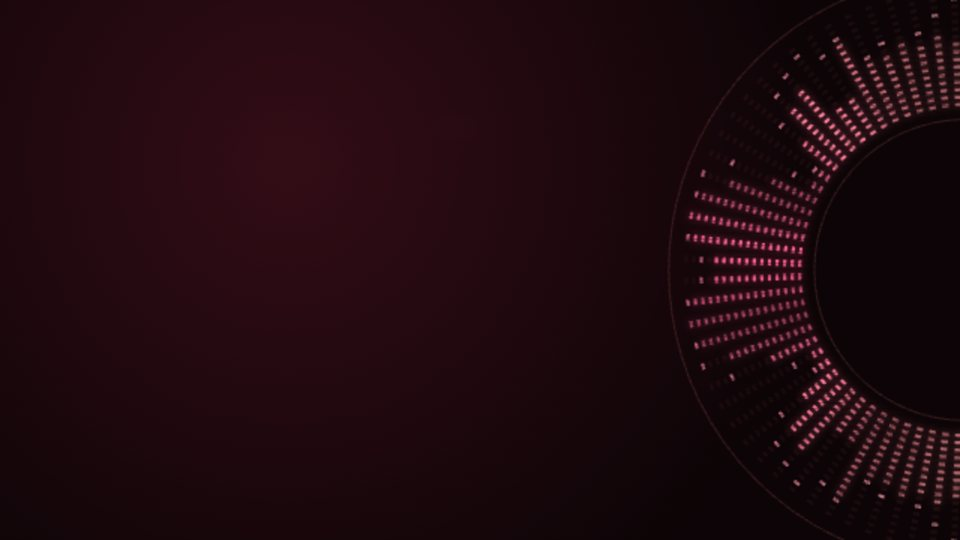
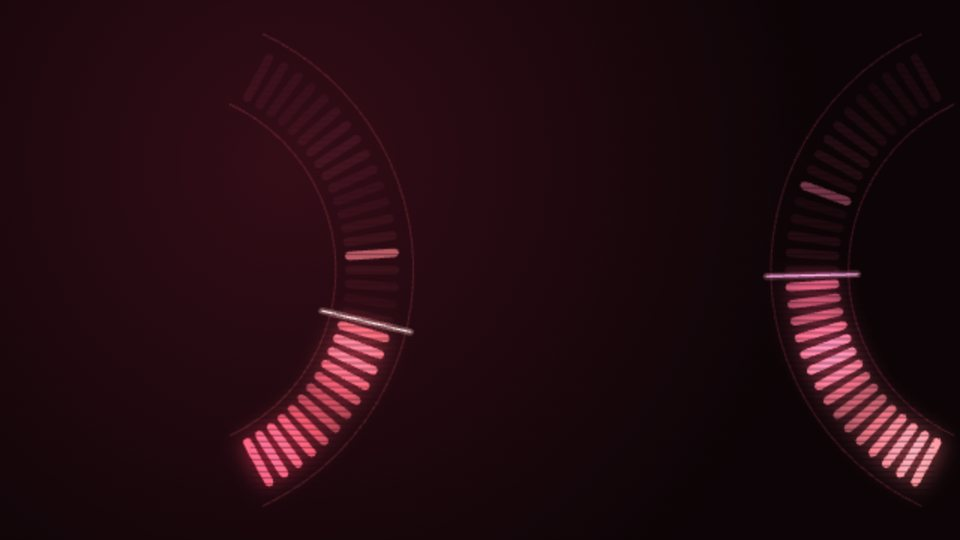
Holo Ring remade: Holo VU meters as off-edge rings (bass left, highs right), Offset slider

Changed region(s): [[0.7188, 0.0593, 1.0, 0.9481], [0.25, 0.563, 0.4375, 0.9185], [0.3438, 0.4444, 0.4375, 0.5037]]

diff --git a/spicy-visualiser.js b/spicy-visualiser.js
@@ -136,6 +136,7 @@
     vuFace: ["vu"],
     vuMeters: ["vu"],
     ringSides: ["holoring"],
+    ringOff: ["holoring"],
     gaugeLook: ["revs"],
     // styles that can sit beside the album art and be moved (not the
     // full-screen scenes)
@@ -172,7 +173,8 @@
     fit: "full", // full = the whole view; art = the free space beside the album art (either side)
     moveX: 0, // move left (-1) / right (+1)
     moveY: 0, // move down (-1) / up (+1)
-    ringSides: "one", // Holo Ring: one side (away from the album art) | both
+    ringSides: "both", // Holo Ring: both (bass left, highs right) | one (bass, away from the album art)
+    ringOff: 0.5, // Holo Ring: how far off the edge the rings sit (more = less of them shows)
     gaugeLook: "modern", // Rev Counter: modern | classic
     circleAt: "middle", // circle styles: middle of the view, or round the album art
     beatEvery: "1", // beat-stepping styles change every 1, 2, 4 or 8 beats
@@ -216,7 +218,7 @@
     sunset: { shake: 0 },
     nightsky: { shake: 0 },
     holospec: { shake: 0 },
-    holoring: { shake: 0 },
+    holoring: { shake: 0, fit: "art" },
     revs: { shake: 0, fit: "art" },
     crt: { shake: 0 },
     rgbsplit: { shake: 0, barCount: 48 },
@@ -2647,8 +2649,9 @@ void main() {
   const vuPos = (db) => (Math.pow(10, db / 20) - 0.1) / (Math.pow(10, 3 / 20) - 0.1); // 0..1 along the scale
   const vuDb = (t) => Math.max(-20, 20 * Math.log10(Math.max(1e-4, t * (Math.pow(10, 3 / 20) - 0.1) + 0.1)));
   const vuTxt = (db) => (db <= -19.95 ? "-20" : (db > 0 ? "+" : "") + db.toFixed(1));
-  DRAW.vu = (v, p, dt) => {
-    const st = v.vu || (v.vu = { t: 0, m: [0, 1].map(() => ({ a: 0, v: 0, lamp: 0, pk: 0, hold: 0 })) });
+  // The two needles (bass, then mids and highs), shared with Holo Ring.
+  // Returns where the red starts on the scale.
+  function vuNeedles(st, p, dt) {
     st.t += dt;
     const sens = p.sensitivity;
     let lo = 0, hi = 0;
@@ -2667,6 +2670,11 @@ void main() {
       if (m.a >= m.pk) { m.pk = m.a; m.hold = 1; }
       else if ((m.hold -= dt) < 0) m.pk = Math.max(m.a, m.pk - dt * 0.5);
     }
+    return red;
+  }
+  DRAW.vu = (v, p, dt) => {
+    const st = v.vu || (v.vu = { t: 0, m: [0, 1].map(() => ({ a: 0, v: 0, lamp: 0, pk: 0, hold: 0 })) });
+    const red = vuNeedles(st, p, dt);
     const look = VU_LOOKS[p.vuFace] || vuNight;
     const sp = freeSpot(v);
     sp.x += Math.max(-1, Math.min(1, +p.moveX || 0)) * v.w * 0.4;
@@ -3022,72 +3030,75 @@ void main() {
   }
   const VU_LOOKS = { night: vuNight, minimal: vuMinimal, holo: vuHolo, hud: vuHud };
 
-  // Holo Ring: the Holo VU's glowing ticks, but going all the way round a
-  // circle whose middle sits on the edge of the screen, so only the half
-  // facing in shows. Each tick is a slice of the spectrum: bass points
-  // straight in, the highs reach up and down. One side (away from the
-  // album art) or one on each side (Sides).
+  // Holo Ring: the Holo VU meter, but each meter is a big ring whose middle
+  // sits off the edge of the screen, so only the part facing in shows: the
+  // bass meter on the left, the highs on the right (or just the bass, on the
+  // side away from the album art: Sides). Ticks light up along the arc from
+  // the bottom to a glowing needle line, the peak tick hangs for a moment,
+  // and ticks past 0 dB turn hot pink. Offset sets how far off the edge the
+  // rings sit (how much of them shows).
   DRAW.holoring = (v, p, dt) => {
-    const { ctx, w, h, U } = v;
-    const st = v.hring || (v.hring = { t: 0 });
-    st.t += dt;
-    const N = 40;
-    holoLevels(st, N, dt, p, (i) => Math.min(1, bandAt((i / (N - 1)) * 0.9) * 1.1));
+    const { ctx, w, h } = v;
+    const st = v.hring || (v.hring = { t: 0, m: [0, 1].map(() => ({ a: 0, v: 0, lamp: 0, pk: 0, hold: 0 })) });
+    const red = vuNeedles(st, p, dt);
     const art = v.artCircle && v.artCircle();
-    const sides = p.ringSides === "both" ? [-1, 1] : [art && art.x > w / 2 ? -1 : 1];
-    const R = Math.min(h * 0.3, w * 0.3) * p.size, L = R * 0.75;
-    const cy = h / 2, pitch = Math.max(5, 4.5 * U), SEG = Math.max(6, Math.floor(L / pitch)), th = Math.max(1.5, pitch * 0.42);
+    const sides = p.ringSides === "one" ? [[art && art.x < w / 2 ? 1 : -1, 0]] : [[-1, 0], [1, 1]];
+    const R = h * 0.42 * p.size, cy = h / 2;
+    const off = R * (0.05 + 0.75 * Math.max(0, Math.min(1, p.ringOff)));
+    const HOT = [255, 80, 130];
+    // half the visible arc: what's on screen sideways, but never running
+    // off the top or bottom (the red end has to stay in view)
+    const span = Math.min(Math.acos(Math.min(0.95, off / (R * 1.08))) - 0.06, Math.asin(Math.min(1, (h * 0.46) / (R * 1.16))));
     ctx.save();
     ctx.globalCompositeOperation = "lighter";
     ctx.globalAlpha = A_(1, v);
-    ctx.lineCap = "butt";
-    for (const sd of sides) {
-      const cx = sd > 0 ? w : 0, inward = sd > 0 ? Math.PI : 0;
-      // faint guide rings
-      ctx.strokeStyle = v.rgba(colorAt(0.5), 0.18);
+    ctx.lineCap = "round";
+    for (const [sd, mi] of sides) {
+      const m = st.m[mi], lvl = Math.max(0, Math.min(1.12, m.a));
+      const cx = sd < 0 ? -off : w + off;
+      // t = 0 at the bottom of the visible arc, 1 at the top
+      const ang = sd < 0 ? (t) => span - 2 * span * t : (t) => Math.PI - span + 2 * span * t;
+      const c0 = mi ? colorAt(0.6) : colorAt(0.1), c1 = mi ? colorAt(0.95) : colorAt(0.45);
+      const n = Math.max(16, Math.round(34 * (span / 1.2)));
+      // faint guide arcs
+      ctx.strokeStyle = v.rgba(mix(c0, c1, 0.5), 0.22);
       ctx.lineWidth = 1;
-      for (const rr of [0.92, 1 + L / R + 0.06]) {
+      for (const rr of [0.8, 1.14]) {
         ctx.beginPath();
-        ctx.arc(cx, cy, R * rr, 0, Math.PI * 2);
+        if (sd < 0) ctx.arc(cx, cy, R * rr, -span - 0.03, span + 0.03);
+        else ctx.arc(cx, cy, R * rr, Math.PI - span - 0.03, Math.PI + span + 0.03);
         ctx.stroke();
       }
-      // each slice twice: once going up from the bass, once going down
-      for (let i = 0; i < N; i++) {
-        const c = colorAt(i / (N - 1)), lv = st.lv[i], top = Math.ceil(lv * SEG);
-        const pk = Math.min(SEG - 1, Math.floor(st.pk[i] * SEG));
-        for (const k of [-1, 1]) {
-          const a = inward + k * (i + 0.5) * (Math.PI / N), ca = Math.cos(a), sa = Math.sin(a);
-          const tw = Math.max(1.5, ((2 * Math.PI * R) / (2 * N)) * 0.5);
-          const lit = new Path2D(), off = new Path2D();
-          for (let s = 0; s < SEG; s++) {
-            const r0 = R + s * pitch, r1 = r0 + th;
-            (s < top ? lit : off).moveTo(cx + ca * r0, cy + sa * r0);
-            (s < top ? lit : off).lineTo(cx + ca * r1, cy + sa * r1);
-          }
-          ctx.lineWidth = tw;
-          ctx.strokeStyle = v.rgba(c, 0.07);
-          ctx.stroke(off);
-          if (top > 0) {
-            ctx.shadowColor = v.rgba(c, 0.9);
-            ctx.shadowBlur = th * 2.5;
-            ctx.strokeStyle = v.rgba(mix(c, WHITE, 0.2), 0.92 * holoShim(st.t, cy + sa * R));
-            ctx.stroke(lit);
-            ctx.shadowBlur = 0;
-          }
-          if (st.pk[i] > 0.04 && pk >= top) {
-            const r0 = R + pk * pitch;
-            ctx.strokeStyle = v.rgba(mix(c, WHITE, 0.3), 0.7);
-            ctx.beginPath();
-            ctx.moveTo(cx + ca * r0, cy + sa * r0);
-            ctx.lineTo(cx + ca * (r0 + th), cy + sa * (r0 + th));
-            ctx.stroke();
-          }
-        }
+      const tw = Math.max(2, ((R * 1.06 * 2 * span) / n) * 0.5);
+      ctx.lineWidth = tw;
+      const pkT = Math.min(n - 1, Math.floor((m.pk / 1.12) * n));
+      for (let j = 0; j < n; j++) {
+        const t = (j + 0.5) / n, a = ang(t);
+        const on = t * 1.12 <= lvl, isPk = j === pkT && m.pk > 0.05;
+        const c = t * 1.12 > red ? HOT : mix(c0, c1, t);
+        const y = cy + Math.sin(a) * R;
+        const shim = holoShim(st.t, y);
+        ctx.strokeStyle = v.rgba(on || isPk ? mix(c, WHITE, 0.2) : c, (on ? 0.95 : isPk ? 0.7 : 0.1) * shim);
+        if (on) { ctx.shadowColor = v.rgba(c, 0.9); ctx.shadowBlur = tw * 2.5; }
+        ctx.beginPath();
+        vuLine(ctx, cx, cy, a, R * 0.86, R * 1.06);
+        ctx.stroke();
+        ctx.shadowBlur = 0;
       }
+      // the glowing needle line across the ring
+      const na = ang(lvl / 1.12), nc = mix(c1, WHITE, 0.45);
+      ctx.strokeStyle = v.rgba(nc, 0.35);
+      ctx.lineWidth = Math.max(4, R * 0.03);
+      ctx.beginPath();
+      vuLine(ctx, cx, cy, na, R * 0.76, R * 1.16);
+      ctx.stroke();
+      ctx.strokeStyle = v.rgba(nc, 0.95);
+      ctx.lineWidth = Math.max(1.2, R * 0.006);
+      ctx.stroke();
     }
     ctx.restore();
-    const RR = R + L + 10;
-    for (const sd of sides) holoScan(ctx, sd > 0 ? w - RR : 0, cy - RR, RR, RR * 2, st.t);
+    const vis = R * 1.2 - off;
+    for (const [sd] of sides) if (vis > 0) holoScan(ctx, sd < 0 ? 0 : w - vis, cy - R * 1.2, vis, R * 2.4, st.t);
   };
 
   // Rev Counter: a car's rev counter. The needle follows the loudness (the
@@ -5532,7 +5543,7 @@ void main() {
             <div class="lp-row"><div class="lp-label"><span>Colour changes</span></div>${seg("colorMove", [["move", "Moving"], ["still", "Still"]], "style")}</div>
             <div class="lp-colors" data-show-color><label><input type="color" data-key="color1" data-scope="style">Colour 1</label><label><input type="color" data-key="color2" data-scope="style">Colour 2</label></div>`)}
           ${group("Appearance", slider("opacity", "Opacity", 0.1, 1, 0.05, "style") + slider("blur", "Blur", 0, 20, 0.5, "style") + slider("brightness", "Brightness", 0.2, 1.6, 0.05, "style") + slider("size", "Size", 0.4, 2, 0.05, "style"))}
-          ${group("Layout", slider("barCount", "Bar count", 16, 128, 1, "style", u("barCount")) + `<div class="lp-row" data-uses="${u("position")}"><div class="lp-label"><span>Position</span></div>${seg("position", [["bottom", "Bottom"], ["top", "Top"], ["both", "Both"]], "style")}</div><div class="lp-row" data-uses="${u("variant")}"><div class="lp-label"><span>Look</span></div>${seg("variant", [["poster", "Poster"], ["brutalist", "Brutalist"]], "style")}</div><div class="lp-row" data-uses="${u("neuroLook")}"><div class="lp-label"><span>Look</span></div>${seg("neuroLook", [["mesh", "Mesh"], ["lines", "Lines"], ["ridges", "Ridges"]], "style")}</div><div class="lp-row" data-uses="${u("vuFace")}"><div class="lp-label"><span>Look</span></div>${seg("vuFace", [["night", "Classic"], ["minimal", "Minimal"], ["holo", "Holo"], ["hud", "HUD"]], "style")}</div><div class="lp-row" data-uses="${u("vuMeters")}"><div class="lp-label"><span>Meters</span></div>${seg("vuMeters", [["both", "Both"], ["split", "Split"], ["bass", "Bass only"]], "style")}</div><div class="lp-row" data-uses="${u("gaugeLook")}"><div class="lp-label"><span>Look</span></div>${seg("gaugeLook", [["modern", "Modern"], ["classic", "Classic"]], "style")}</div><div class="lp-row" data-uses="${u("ringSides")}"><div class="lp-label"><span>Sides</span></div>${seg("ringSides", [["one", "One side"], ["both", "Both sides"]], "style")}</div><div class="lp-row" data-uses="${u("fit")}"><div class="lp-label"><span>Fit</span></div>${seg("fit", [["full", "Full width"], ["art", "Beside art"]], "style")}</div>${slider("moveX", "Left / right", -1, 1, 0.05, "style", u("moveX"))}${slider("moveY", "Up / down", -1, 1, 0.05, "style", u("moveY"))}<div class="lp-row" data-uses="${u("circleAt")}"><div class="lp-label"><span>Circle at</span></div>${seg("circleAt", [["middle", "Middle"], ["art", "Album art"]], "style")}</div><div class="lp-row" data-uses="${u("mcColor")}"><div class="lp-label"><span>Bar colour</span></div>${seg("mcColor", [["flow", "Flow"], ["frequency", "Freq."], ["height", "Area"], ["bar", "Bar"], ["solid", "Solid"]], "style")}</div><div class="lp-row" data-uses="${u("beatEvery")}"><div class="lp-label"><span>Change every</span></div>${seg("beatEvery", [["1", "Beat"], ["2", "2"], ["4", "4"], ["8", "8 beats"]], "style")}</div>`, [...new Set([...USES.barCount, ...USES.position, ...USES.variant, ...USES.neuroLook, ...USES.vuFace, ...USES.vuMeters, ...USES.moveX, ...USES.gaugeLook, ...USES.ringSides, ...USES.circleAt, ...USES.mcColor, ...USES.beatEvery])].join(","))}
+          ${group("Layout", slider("barCount", "Bar count", 16, 128, 1, "style", u("barCount")) + `<div class="lp-row" data-uses="${u("position")}"><div class="lp-label"><span>Position</span></div>${seg("position", [["bottom", "Bottom"], ["top", "Top"], ["both", "Both"]], "style")}</div><div class="lp-row" data-uses="${u("variant")}"><div class="lp-label"><span>Look</span></div>${seg("variant", [["poster", "Poster"], ["brutalist", "Brutalist"]], "style")}</div><div class="lp-row" data-uses="${u("neuroLook")}"><div class="lp-label"><span>Look</span></div>${seg("neuroLook", [["mesh", "Mesh"], ["lines", "Lines"], ["ridges", "Ridges"]], "style")}</div><div class="lp-row" data-uses="${u("vuFace")}"><div class="lp-label"><span>Look</span></div>${seg("vuFace", [["night", "Classic"], ["minimal", "Minimal"], ["holo", "Holo"], ["hud", "HUD"]], "style")}</div><div class="lp-row" data-uses="${u("vuMeters")}"><div class="lp-label"><span>Meters</span></div>${seg("vuMeters", [["both", "Both"], ["split", "Split"], ["bass", "Bass only"]], "style")}</div><div class="lp-row" data-uses="${u("gaugeLook")}"><div class="lp-label"><span>Look</span></div>${seg("gaugeLook", [["modern", "Modern"], ["classic", "Classic"]], "style")}</div><div class="lp-row" data-uses="${u("ringSides")}"><div class="lp-label"><span>Sides</span></div>${seg("ringSides", [["both", "Both sides"], ["one", "One side"]], "style")}</div>${slider("ringOff", "Offset", 0, 1, 0.05, "style", u("ringOff"))}<div class="lp-row" data-uses="${u("fit")}"><div class="lp-label"><span>Fit</span></div>${seg("fit", [["full", "Full width"], ["art", "Beside art"]], "style")}</div>${slider("moveX", "Left / right", -1, 1, 0.05, "style", u("moveX"))}${slider("moveY", "Up / down", -1, 1, 0.05, "style", u("moveY"))}<div class="lp-row" data-uses="${u("circleAt")}"><div class="lp-label"><span>Circle at</span></div>${seg("circleAt", [["middle", "Middle"], ["art", "Album art"]], "style")}</div><div class="lp-row" data-uses="${u("mcColor")}"><div class="lp-label"><span>Bar colour</span></div>${seg("mcColor", [["flow", "Flow"], ["frequency", "Freq."], ["height", "Area"], ["bar", "Bar"], ["solid", "Solid"]], "style")}</div><div class="lp-row" data-uses="${u("beatEvery")}"><div class="lp-label"><span>Change every</span></div>${seg("beatEvery", [["1", "Beat"], ["2", "2"], ["4", "4"], ["8", "8 beats"]], "style")}</div>`, [...new Set([...USES.barCount, ...USES.position, ...USES.variant, ...USES.neuroLook, ...USES.vuFace, ...USES.vuMeters, ...USES.moveX, ...USES.gaugeLook, ...USES.ringSides, ...USES.circleAt, ...USES.mcColor, ...USES.beatEvery])].join(","))}
         </div>
         ${group("Background", slider("bgDim", "Darken background", 0, 0.9, 0.05, "global") + `<div class="lp-note">Calms Spicy Lyrics' moving background so the visual stands out. The lyrics and album art aren't touched.</div>`)}
       </div>

diff --git a/src/spicy-visualiser.template.js b/src/spicy-visualiser.template.js
@@ -136,6 +136,7 @@
     vuFace: ["vu"],
     vuMeters: ["vu"],
     ringSides: ["holoring"],
+    ringOff: ["holoring"],
     gaugeLook: ["revs"],
     // styles that can sit beside the album art and be moved (not the
     // full-screen scenes)
@@ -172,7 +173,8 @@
     fit: "full", // full = the whole view; art = the free space beside the album art (either side)
     moveX: 0, // move left (-1) / right (+1)
     moveY: 0, // move down (-1) / up (+1)
-    ringSides: "one", // Holo Ring: one side (away from the album art) | both
+    ringSides: "both", // Holo Ring: both (bass left, highs right) | one (bass, away from the album art)
+    ringOff: 0.5, // Holo Ring: how far off the edge the rings sit (more = less of them shows)
     gaugeLook: "modern", // Rev Counter: modern | classic
     circleAt: "middle", // circle styles: middle of the view, or round the album art
     beatEvery: "1", // beat-stepping styles change every 1, 2, 4 or 8 beats
@@ -216,7 +218,7 @@
     sunset: { shake: 0 },
     nightsky: { shake: 0 },
     holospec: { shake: 0 },
-    holoring: { shake: 0 },
+    holoring: { shake: 0, fit: "art" },
     revs: { shake: 0, fit: "art" },
     crt: { shake: 0 },
     rgbsplit: { shake: 0, barCount: 48 },
@@ -2647,8 +2649,9 @@ void main() {
   const vuPos = (db) => (Math.pow(10, db / 20) - 0.1) / (Math.pow(10, 3 / 20) - 0.1); // 0..1 along the scale
   const vuDb = (t) => Math.max(-20, 20 * Math.log10(Math.max(1e-4, t * (Math.pow(10, 3 / 20) - 0.1) + 0.1)));
   const vuTxt = (db) => (db <= -19.95 ? "-20" : (db > 0 ? "+" : "") + db.toFixed(1));
-  DRAW.vu = (v, p, dt) => {
-    const st = v.vu || (v.vu = { t: 0, m: [0, 1].map(() => ({ a: 0, v: 0, lamp: 0, pk: 0, hold: 0 })) });
+  // The two needles (bass, then mids and highs), shared with Holo Ring.
+  // Returns where the red starts on the scale.
+  function vuNeedles(st, p, dt) {
     st.t += dt;
     const sens = p.sensitivity;
     let lo = 0, hi = 0;
@@ -2667,6 +2670,11 @@ void main() {
       if (m.a >= m.pk) { m.pk = m.a; m.hold = 1; }
       else if ((m.hold -= dt) < 0) m.pk = Math.max(m.a, m.pk - dt * 0.5);
     }
+    return red;
+  }
+  DRAW.vu = (v, p, dt) => {
+    const st = v.vu || (v.vu = { t: 0, m: [0, 1].map(() => ({ a: 0, v: 0, lamp: 0, pk: 0, hold: 0 })) });
+    const red = vuNeedles(st, p, dt);
     const look = VU_LOOKS[p.vuFace] || vuNight;
     const sp = freeSpot(v);
     sp.x += Math.max(-1, Math.min(1, +p.moveX || 0)) * v.w * 0.4;
@@ -3022,72 +3030,75 @@ void main() {
   }
   const VU_LOOKS = { night: vuNight, minimal: vuMinimal, holo: vuHolo, hud: vuHud };
 
-  // Holo Ring: the Holo VU's glowing ticks, but going all the way round a
-  // circle whose middle sits on the edge of the screen, so only the half
-  // facing in shows. Each tick is a slice of the spectrum: bass points
-  // straight in, the highs reach up and down. One side (away from the
-  // album art) or one on each side (Sides).
+  // Holo Ring: the Holo VU meter, but each meter is a big ring whose middle
+  // sits off the edge of the screen, so only the part facing in shows: the
+  // bass meter on the left, the highs on the right (or just the bass, on the
+  // side away from the album art: Sides). Ticks light up along the arc from
+  // the bottom to a glowing needle line, the peak tick hangs for a moment,
+  // and ticks past 0 dB turn hot pink. Offset sets how far off the edge the
+  // rings sit (how much of them shows).
   DRAW.holoring = (v, p, dt) => {
-    const { ctx, w, h, U } = v;
-    const st = v.hring || (v.hring = { t: 0 });
-    st.t += dt;
-    const N = 40;
-    holoLevels(st, N, dt, p, (i) => Math.min(1, bandAt((i / (N - 1)) * 0.9) * 1.1));
+    const { ctx, w, h } = v;
+    const st = v.hring || (v.hring = { t: 0, m: [0, 1].map(() => ({ a: 0, v: 0, lamp: 0, pk: 0, hold: 0 })) });
+    const red = vuNeedles(st, p, dt);
     const art = v.artCircle && v.artCircle();
-    const sides = p.ringSides === "both" ? [-1, 1] : [art && art.x > w / 2 ? -1 : 1];
-    const R = Math.min(h * 0.3, w * 0.3) * p.size, L = R * 0.75;
-    const cy = h / 2, pitch = Math.max(5, 4.5 * U), SEG = Math.max(6, Math.floor(L / pitch)), th = Math.max(1.5, pitch * 0.42);
+    const sides = p.ringSides === "one" ? [[art && art.x < w / 2 ? 1 : -1, 0]] : [[-1, 0], [1, 1]];
+    const R = h * 0.42 * p.size, cy = h / 2;
+    const off = R * (0.05 + 0.75 * Math.max(0, Math.min(1, p.ringOff)));
+    const HOT = [255, 80, 130];
+    // half the visible arc: what's on screen sideways, but never running
+    // off the top or bottom (the red end has to stay in view)
+    const span = Math.min(Math.acos(Math.min(0.95, off / (R * 1.08))) - 0.06, Math.asin(Math.min(1, (h * 0.46) / (R * 1.16))));
     ctx.save();
     ctx.globalCompositeOperation = "lighter";
     ctx.globalAlpha = A_(1, v);
-    ctx.lineCap = "butt";
-    for (const sd of sides) {
-      const cx = sd > 0 ? w : 0, inward = sd > 0 ? Math.PI : 0;
-      // faint guide rings
-      ctx.strokeStyle = v.rgba(colorAt(0.5), 0.18);
+    ctx.lineCap = "round";
+    for (const [sd, mi] of sides) {
+      const m = st.m[mi], lvl = Math.max(0, Math.min(1.12, m.a));
+      const cx = sd < 0 ? -off : w + off;
+      // t = 0 at the bottom of the visible arc, 1 at the top
+      const ang = sd < 0 ? (t) => span - 2 * span * t : (t) => Math.PI - span + 2 * span * t;
+      const c0 = mi ? colorAt(0.6) : colorAt(0.1), c1 = mi ? colorAt(0.95) : colorAt(0.45);
+      const n = Math.max(16, Math.round(34 * (span / 1.2)));
+      // faint guide arcs
+      ctx.strokeStyle = v.rgba(mix(c0, c1, 0.5), 0.22);
       ctx.lineWidth = 1;
-      for (const rr of [0.92, 1 + L / R + 0.06]) {
+      for (const rr of [0.8, 1.14]) {
         ctx.beginPath();
-        ctx.arc(cx, cy, R * rr, 0, Math.PI * 2);
+        if (sd < 0) ctx.arc(cx, cy, R * rr, -span - 0.03, span + 0.03);
+        else ctx.arc(cx, cy, R * rr, Math.PI - span - 0.03, Math.PI + span + 0.03);
         ctx.stroke();
       }
-      // each slice twice: once going up from the bass, once going down
-      for (let i = 0; i < N; i++) {
-        const c = colorAt(i / (N - 1)), lv = st.lv[i], top = Math.ceil(lv * SEG);
-        const pk = Math.min(SEG - 1, Math.floor(st.pk[i] * SEG));
-        for (const k of [-1, 1]) {
-          const a = inward + k * (i + 0.5) * (Math.PI / N), ca = Math.cos(a), sa = Math.sin(a);
-          const tw = Math.max(1.5, ((2 * Math.PI * R) / (2 * N)) * 0.5);
-          const lit = new Path2D(), off = new Path2D();
-          for (let s = 0; s < SEG; s++) {
-            const r0 = R + s * pitch, r1 = r0 + th;
-            (s < top ? lit : off).moveTo(cx + ca * r0, cy + sa * r0);
-            (s < top ? lit : off).lineTo(cx + ca * r1, cy + sa * r1);
-          }
-          ctx.lineWidth = tw;
-          ctx.strokeStyle = v.rgba(c, 0.07);
-          ctx.stroke(off);
-          if (top > 0) {
-            ctx.shadowColor = v.rgba(c, 0.9);
-            ctx.shadowBlur = th * 2.5;
-            ctx.strokeStyle = v.rgba(mix(c, WHITE, 0.2), 0.92 * holoShim(st.t, cy + sa * R));
-            ctx.stroke(lit);
-            ctx.shadowBlur = 0;
-          }
-          if (st.pk[i] > 0.04 && pk >= top) {
-            const r0 = R + pk * pitch;
-            ctx.strokeStyle = v.rgba(mix(c, WHITE, 0.3), 0.7);
-            ctx.beginPath();
-            ctx.moveTo(cx + ca * r0, cy + sa * r0);
-            ctx.lineTo(cx + ca * (r0 + th), cy + sa * (r0 + th));
-            ctx.stroke();
-          }
-        }
+      const tw = Math.max(2, ((R * 1.06 * 2 * span) / n) * 0.5);
+      ctx.lineWidth = tw;
+      const pkT = Math.min(n - 1, Math.floor((m.pk / 1.12) * n));
+      for (let j = 0; j < n; j++) {
+        const t = (j + 0.5) / n, a = ang(t);
+        const on = t * 1.12 <= lvl, isPk = j === pkT && m.pk > 0.05;
+        const c = t * 1.12 > red ? HOT : mix(c0, c1, t);
+        const y = cy + Math.sin(a) * R;
+        const shim = holoShim(st.t, y);
+        ctx.strokeStyle = v.rgba(on || isPk ? mix(c, WHITE, 0.2) : c, (on ? 0.95 : isPk ? 0.7 : 0.1) * shim);
+        if (on) { ctx.shadowColor = v.rgba(c, 0.9); ctx.shadowBlur = tw * 2.5; }
+        ctx.beginPath();
+        vuLine(ctx, cx, cy, a, R * 0.86, R * 1.06);
+        ctx.stroke();
+        ctx.shadowBlur = 0;
       }
+      // the glowing needle line across the ring
+      const na = ang(lvl / 1.12), nc = mix(c1, WHITE, 0.45);
+      ctx.strokeStyle = v.rgba(nc, 0.35);
+      ctx.lineWidth = Math.max(4, R * 0.03);
+      ctx.beginPath();
+      vuLine(ctx, cx, cy, na, R * 0.76, R * 1.16);
+      ctx.stroke();
+      ctx.strokeStyle = v.rgba(nc, 0.95);
+      ctx.lineWidth = Math.max(1.2, R * 0.006);
+      ctx.stroke();
     }
     ctx.restore();
-    const RR = R + L + 10;
-    for (const sd of sides) holoScan(ctx, sd > 0 ? w - RR : 0, cy - RR, RR, RR * 2, st.t);
+    const vis = R * 1.2 - off;
+    for (const [sd] of sides) if (vis > 0) holoScan(ctx, sd < 0 ? 0 : w - vis, cy - R * 1.2, vis, R * 2.4, st.t);
   };
 
   // Rev Counter: a car's rev counter. The needle follows the loudness (the
@@ -5220,7 +5231,7 @@ void main() {
             <div class="lp-row"><div class="lp-label"><span>Colour changes</span></div>${seg("colorMove", [["move", "Moving"], ["still", "Still"]], "style")}</div>
             <div class="lp-colors" data-show-color><label><input type="color" data-key="color1" data-scope="style">Colour 1</label><label><input type="color" data-key="color2" data-scope="style">Colour 2</label></div>`)}
           ${group("Appearance", slider("opacity", "Opacity", 0.1, 1, 0.05, "style") + slider("blur", "Blur", 0, 20, 0.5, "style") + slider("brightness", "Brightness", 0.2, 1.6, 0.05, "style") + slider("size", "Size", 0.4, 2, 0.05, "style"))}
-          ${group("Layout", slider("barCount", "Bar count", 16, 128, 1, "style", u("barCount")) + `<div class="lp-row" data-uses="${u("position")}"><div class="lp-label"><span>Position</span></div>${seg("position", [["bottom", "Bottom"], ["top", "Top"], ["both", "Both"]], "style")}</div><div class="lp-row" data-uses="${u("variant")}"><div class="lp-label"><span>Look</span></div>${seg("variant", [["poster", "Poster"], ["brutalist", "Brutalist"]], "style")}</div><div class="lp-row" data-uses="${u("neuroLook")}"><div class="lp-label"><span>Look</span></div>${seg("neuroLook", [["mesh", "Mesh"], ["lines", "Lines"], ["ridges", "Ridges"]], "style")}</div><div class="lp-row" data-uses="${u("vuFace")}"><div class="lp-label"><span>Look</span></div>${seg("vuFace", [["night", "Classic"], ["minimal", "Minimal"], ["holo", "Holo"], ["hud", "HUD"]], "style")}</div><div class="lp-row" data-uses="${u("vuMeters")}"><div class="lp-label"><span>Meters</span></div>${seg("vuMeters", [["both", "Both"], ["split", "Split"], ["bass", "Bass only"]], "style")}</div><div class="lp-row" data-uses="${u("gaugeLook")}"><div class="lp-label"><span>Look</span></div>${seg("gaugeLook", [["modern", "Modern"], ["classic", "Classic"]], "style")}</div><div class="lp-row" data-uses="${u("ringSides")}"><div class="lp-label"><span>Sides</span></div>${seg("ringSides", [["one", "One side"], ["both", "Both sides"]], "style")}</div><div class="lp-row" data-uses="${u("fit")}"><div class="lp-label"><span>Fit</span></div>${seg("fit", [["full", "Full width"], ["art", "Beside art"]], "style")}</div>${slider("moveX", "Left / right", -1, 1, 0.05, "style", u("moveX"))}${slider("moveY", "Up / down", -1, 1, 0.05, "style", u("moveY"))}<div class="lp-row" data-uses="${u("circleAt")}"><div class="lp-label"><span>Circle at</span></div>${seg("circleAt", [["middle", "Middle"], ["art", "Album art"]], "style")}</div><div class="lp-row" data-uses="${u("mcColor")}"><div class="lp-label"><span>Bar colour</span></div>${seg("mcColor", [["flow", "Flow"], ["frequency", "Freq."], ["height", "Area"], ["bar", "Bar"], ["solid", "Solid"]], "style")}</div><div class="lp-row" data-uses="${u("beatEvery")}"><div class="lp-label"><span>Change every</span></div>${seg("beatEvery", [["1", "Beat"], ["2", "2"], ["4", "4"], ["8", "8 beats"]], "style")}</div>`, [...new Set([...USES.barCount, ...USES.position, ...USES.variant, ...USES.neuroLook, ...USES.vuFace, ...USES.vuMeters, ...USES.moveX, ...USES.gaugeLook, ...USES.ringSides, ...USES.circleAt, ...USES.mcColor, ...USES.beatEvery])].join(","))}
+          ${group("Layout", slider("barCount", "Bar count", 16, 128, 1, "style", u("barCount")) + `<div class="lp-row" data-uses="${u("position")}"><div class="lp-label"><span>Position</span></div>${seg("position", [["bottom", "Bottom"], ["top", "Top"], ["both", "Both"]], "style")}</div><div class="lp-row" data-uses="${u("variant")}"><div class="lp-label"><span>Look</span></div>${seg("variant", [["poster", "Poster"], ["brutalist", "Brutalist"]], "style")}</div><div class="lp-row" data-uses="${u("neuroLook")}"><div class="lp-label"><span>Look</span></div>${seg("neuroLook", [["mesh", "Mesh"], ["lines", "Lines"], ["ridges", "Ridges"]], "style")}</div><div class="lp-row" data-uses="${u("vuFace")}"><div class="lp-label"><span>Look</span></div>${seg("vuFace", [["night", "Classic"], ["minimal", "Minimal"], ["holo", "Holo"], ["hud", "HUD"]], "style")}</div><div class="lp-row" data-uses="${u("vuMeters")}"><div class="lp-label"><span>Meters</span></div>${seg("vuMeters", [["both", "Both"], ["split", "Split"], ["bass", "Bass only"]], "style")}</div><div class="lp-row" data-uses="${u("gaugeLook")}"><div class="lp-label"><span>Look</span></div>${seg("gaugeLook", [["modern", "Modern"], ["classic", "Classic"]], "style")}</div><div class="lp-row" data-uses="${u("ringSides")}"><div class="lp-label"><span>Sides</span></div>${seg("ringSides", [["both", "Both sides"], ["one", "One side"]], "style")}</div>${slider("ringOff", "Offset", 0, 1, 0.05, "style", u("ringOff"))}<div class="lp-row" data-uses="${u("fit")}"><div class="lp-label"><span>Fit</span></div>${seg("fit", [["full", "Full width"], ["art", "Beside art"]], "style")}</div>${slider("moveX", "Left / right", -1, 1, 0.05, "style", u("moveX"))}${slider("moveY", "Up / down", -1, 1, 0.05, "style", u("moveY"))}<div class="lp-row" data-uses="${u("circleAt")}"><div class="lp-label"><span>Circle at</span></div>${seg("circleAt", [["middle", "Middle"], ["art", "Album art"]], "style")}</div><div class="lp-row" data-uses="${u("mcColor")}"><div class="lp-label"><span>Bar colour</span></div>${seg("mcColor", [["flow", "Flow"], ["frequency", "Freq."], ["height", "Area"], ["bar", "Bar"], ["solid", "Solid"]], "style")}</div><div class="lp-row" data-uses="${u("beatEvery")}"><div class="lp-label"><span>Change every</span></div>${seg("beatEvery", [["1", "Beat"], ["2", "2"], ["4", "4"], ["8", "8 beats"]], "style")}</div>`, [...new Set([...USES.barCount, ...USES.position, ...USES.variant, ...USES.neuroLook, ...USES.vuFace, ...USES.vuMeters, ...USES.moveX, ...USES.gaugeLook, ...USES.ringSides, ...USES.circleAt, ...USES.mcColor, ...USES.beatEvery])].join(","))}
         </div>
         ${group("Background", slider("bgDim", "Darken background", 0, 0.9, 0.05, "global") + `<div class="lp-note">Calms Spicy Lyrics' moving background so the visual stands out. The lyrics and album art aren't touched.</div>`)}
       </div>

diff --git a/docs/STYLES.md b/docs/STYLES.md
@@ -144,7 +144,7 @@ A speaker drawn in light:
 ### Holo Ring
 ![Holo Ring](screenshots/styles/holoring.jpg)
 
-The Holo VU's glowing ticks, but right round a circle whose middle sits on the edge of the screen, so only the half facing in shows. Each tick is a slice of the spectrum: the bass points straight in and the highs reach up and down. **Sides** puts it on one side (away from the album art) or one on each side.
+The Holo VU meter as two big rings sitting off the edges of the screen, so only the part facing in shows: the bass meter on the left, the highs on the right. Ticks light up along the arc from the bottom to a glowing needle line, the peak tick hangs for a moment, and ticks past 0 dB turn hot pink. **Sides**: both, or one side (just the bass, away from the album art). **Offset** sets how far off the edge the rings sit, so how much of them shows. It starts on **Fit: Beside art**, so the left ring sits just past the album art.
 
 ### Trap
 ![Trap](screenshots/styles/trap.jpg)
